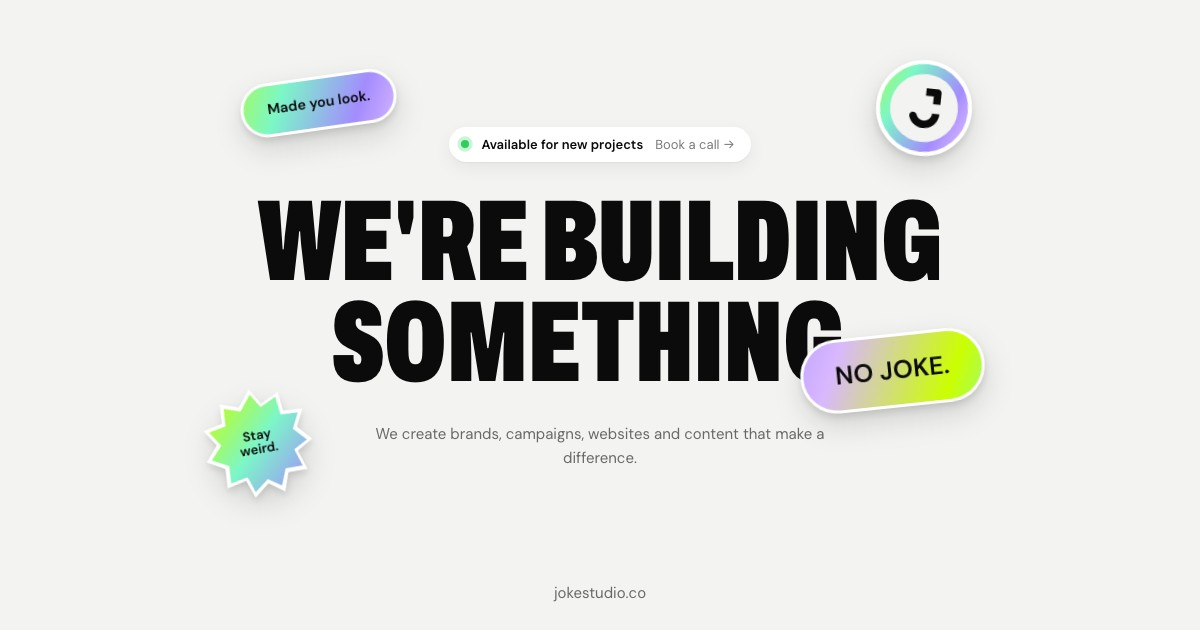
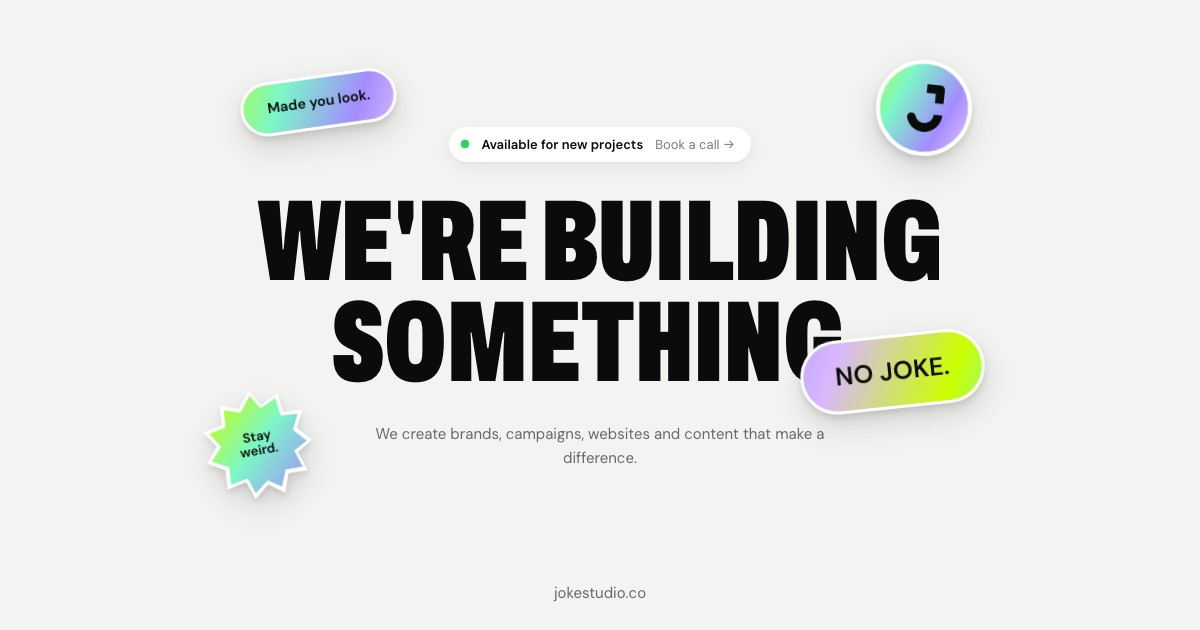
Hero badge: black J straight on the gradient, no inner disc

diff --git a/index.html b/index.html
@@ -221,7 +221,7 @@
     </div>
   </div>
   <div class="v-stk hs1" style="left:20%;top:14%;--r:-8deg"><div class="v-stk-in"><div class="v-face v-pill v-holo">Made you look.</div></div></div>
-  <div class="v-stk hs2" style="right:19%;top:10%;--r:6deg"><div class="v-stk-in" style="animation-delay:-2s"><div class="v-face v-circle v-holo"><span class="v-dot" style="background:#F3F3F1"><img src="uploads/joke-emblem.svg" style="width:44%;margin-left:4%" alt="" draggable="false"></span></div></div></div>
+  <div class="v-stk hs2" style="right:19%;top:10%;--r:6deg"><div class="v-stk-in" style="animation-delay:-2s"><div class="v-face v-circle v-holo"><span class="v-dot" style="background:transparent"><img src="uploads/joke-emblem.svg" style="width:52%;margin-left:4%" alt="" draggable="false"></span></div></div></div>
   <div class="v-stk hs3" style="left:17%;bottom:16%;--r:-10deg"><div class="v-stk-in" style="animation-delay:-4s"><div class="v-face v-star"><svg viewBox="0 0 100 100"><defs><linearGradient id="vg1" x1="0" y1="0" x2="1" y2="1"><stop offset="0" stop-color="#CCFF01"/><stop offset=".5" stop-color="#7CF7C8"/><stop offset="1" stop-color="#A48CFF"/></linearGradient></defs><polygon fill="#fff" points="50,0 59,15 76,7 78,25 96,26 88,42 100,55 85,64 91,82 73,82 67,99 53,89 39,100 33,83 15,87 16,69 0,60 12,46 2,31 20,27 21,9 38,15"/><polygon fill="url(#vg1)" points="50,5 58,18 73,11 75,28 91,29 84,43 95,55 82,62 87,78 71,78 65,93 53,85 40,95 35,80 19,83 20,67 5,59 16,47 7,33 23,30 24,14 39,19"/></svg><span>Stay<br>weird.</span></div></div></div>
   <div class="v-stk" id="v-nojoke" style="left:0;top:0;--r:-6deg;opacity:0;transition:opacity .35s ease"><div class="v-stk-in" style="animation-delay:-3s"><div class="v-face v-pill v-holo v-holo2" style="font-weight:600;font-size:clamp(22px,2.1vw,36px);padding:15px 32px;letter-spacing:.01em">NO JOKE.</div></div></div>
 </section>
@@ -603,7 +603,7 @@
   <div style="position:relative">
     <h2 class="v-say v-big" aria-label="Say hello">Say hello</h2>
     <div class="v-stk fs1" style="left:3%;top:9%;--r:-7deg"><div class="v-stk-in"><div class="v-face v-pill v-holo v-holo2">Let's fix that.</div></div></div>
-    <div class="v-stk fs2" style="right:4%;top:6%;--r:8deg"><div class="v-stk-in" style="animation-delay:-2s"><div class="v-face v-circle v-holo"><span class="v-dot" style="background:#F3F3F1"><img src="uploads/joke-emblem.svg" style="width:44%;margin-left:4%" alt="" draggable="false"></span></div></div></div>
+    <div class="v-stk fs2" style="right:4%;top:6%;--r:8deg"><div class="v-stk-in" style="animation-delay:-2s"><div class="v-face v-circle v-holo"><span class="v-dot" style="background:transparent"><img src="uploads/joke-emblem.svg" style="width:52%;margin-left:4%" alt="" draggable="false"></span></div></div></div>
     <div class="v-stk fs3" style="left:42%;bottom:6%;--r:-4deg"><div class="v-stk-in" style="animation-delay:-4s"><div class="v-face v-pill v-holo">Creative studio</div></div></div>
   </div>
   <div class="v-fcols">

diff --git a/CLAUDE.md b/CLAUDE.md
@@ -41,7 +41,7 @@ No dependencies. Test both desktop (1440×900) and mobile (390×844) widths.
 - Contact "normal?" → `data-spray="scribble"`. Footer logo → `data-spray="circle"`.
 - "What we do" row hover → CSS layer in `_setupServiceRows` (the `wipe` div): green `#CCFF01` with the spray-edge mask,
   animated with `transform` only. Don't go back to canvas fills there; that froze the page.
-- Nav / mobile menu / footer logo: `uploads/joke-wordmark.svg` ("Joke® Studio" with the J emblem, 22px high; `joke-wordmark-light.svg` on the dark All work page). Hero round badge: `uploads/joke-emblem.svg` on cream, never on black (owner, 2026-11-08). Source: Figma `2dUT2JUuwfITmXhKdqBpcC`, section `173:484` "Logo-Amblem". The old smiley (`joke-smile.webp`) is only used by the unused `hero-smile.js`.
+- Nav / mobile menu / footer logo: `uploads/joke-wordmark.svg` ("Joke® Studio" with the J emblem, 22px high; `joke-wordmark-light.svg` on the dark All work page). Hero round badge: `uploads/joke-emblem.svg` in black straight on the gradient, no inner disc (owner, 2026-11-08). Source: Figma `2dUT2JUuwfITmXhKdqBpcC`, section `173:484` "Logo-Amblem". The old smiley (`joke-smile.webp`) is only used by the unused `hero-smile.js`.
 
 ## Contact form
 `_setupContactSubmit` POSTs JSON to **`/api/contact`** (`api/contact.js`, a Vercel function), which validates it and emails it via **Resend**.
